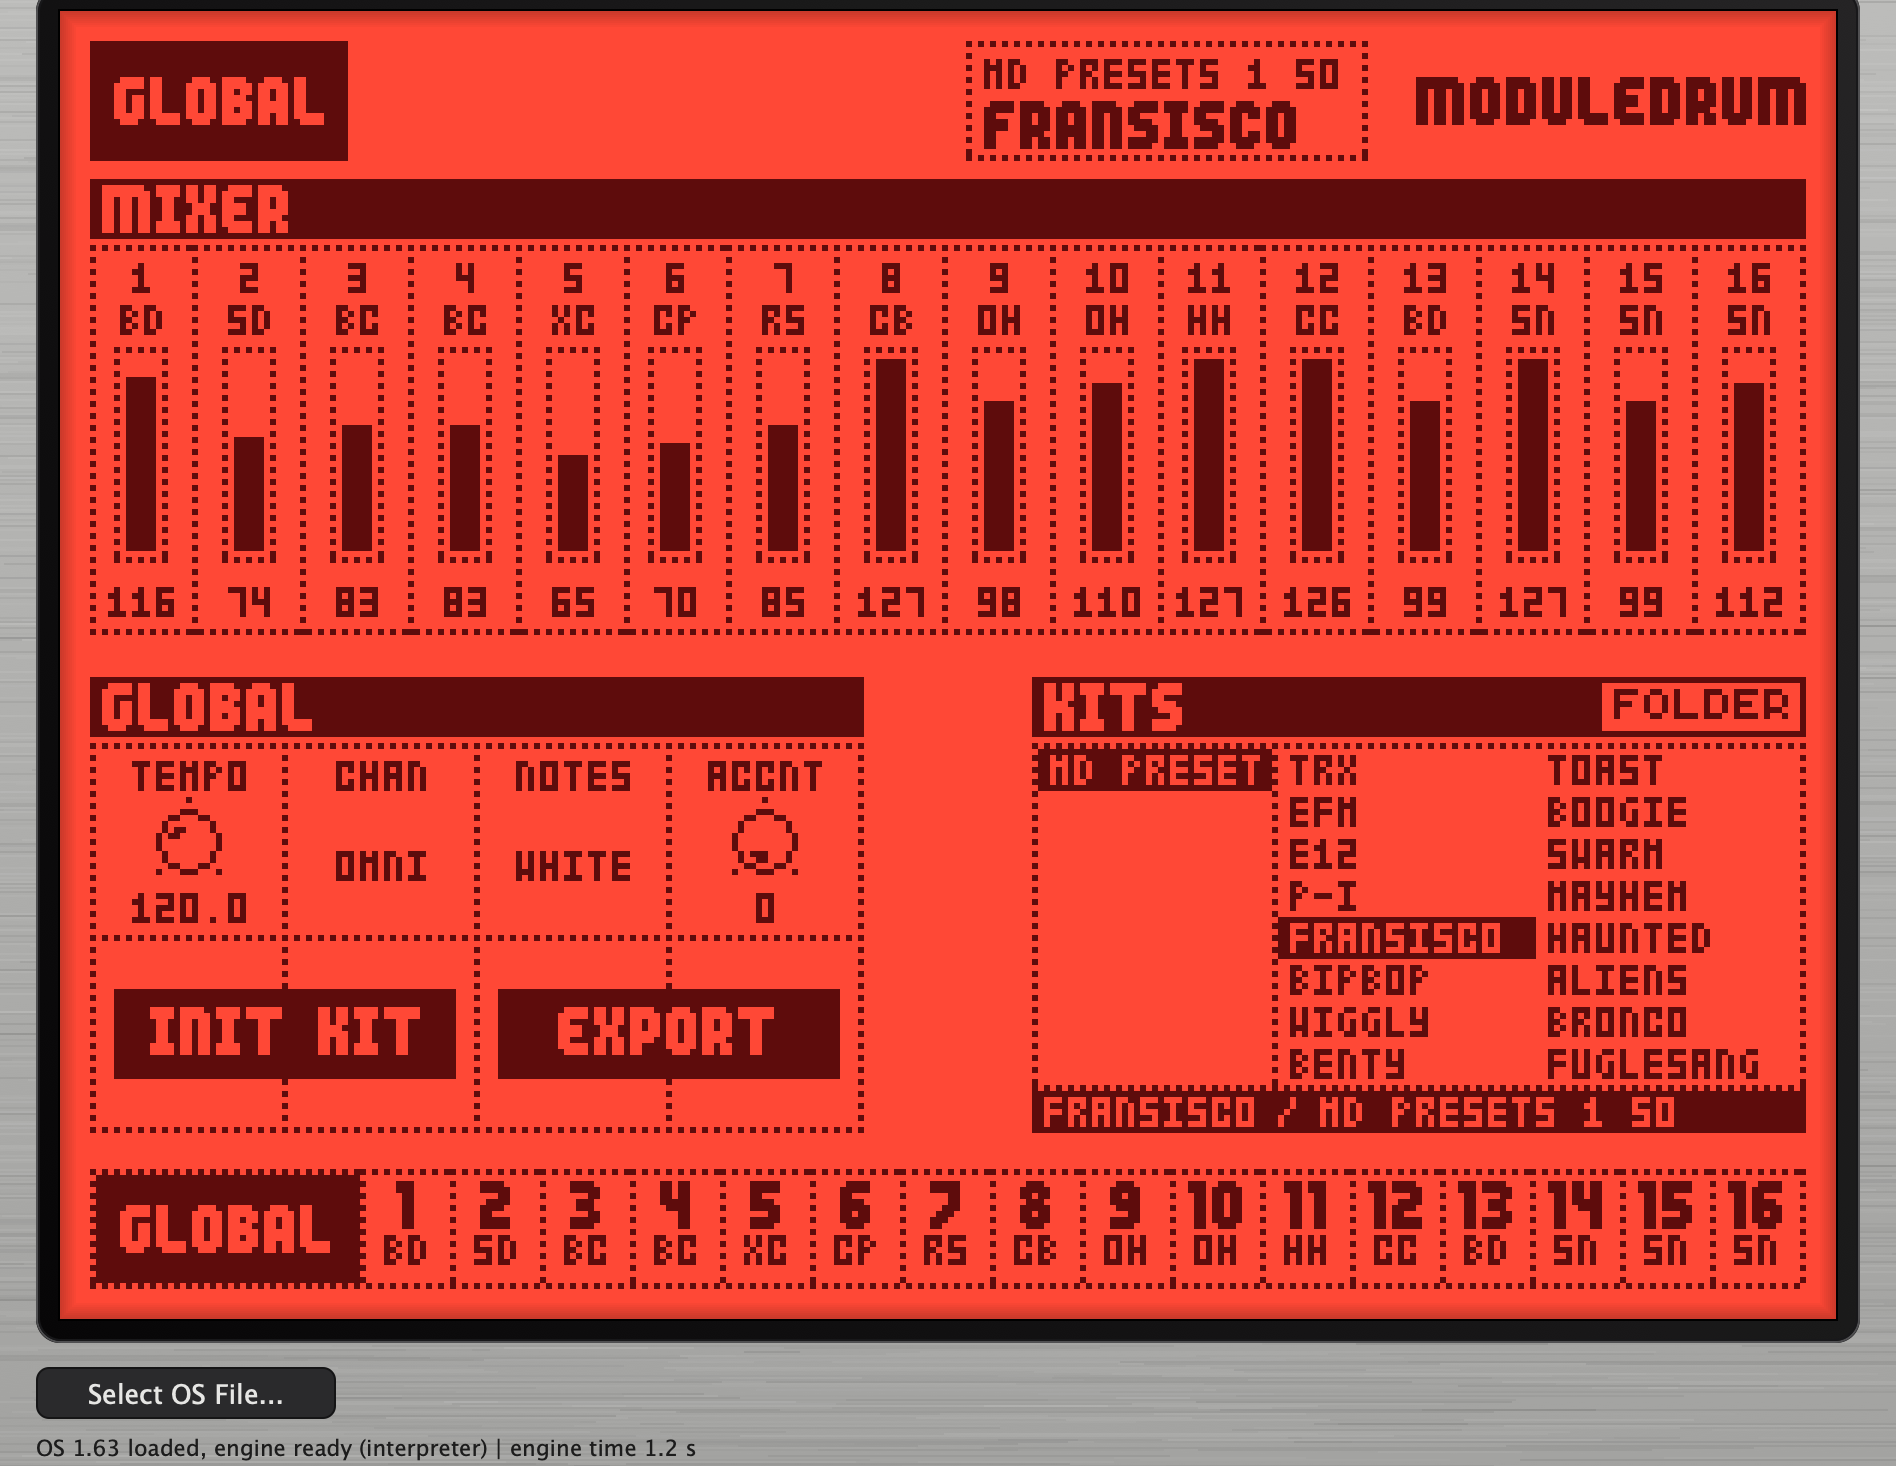
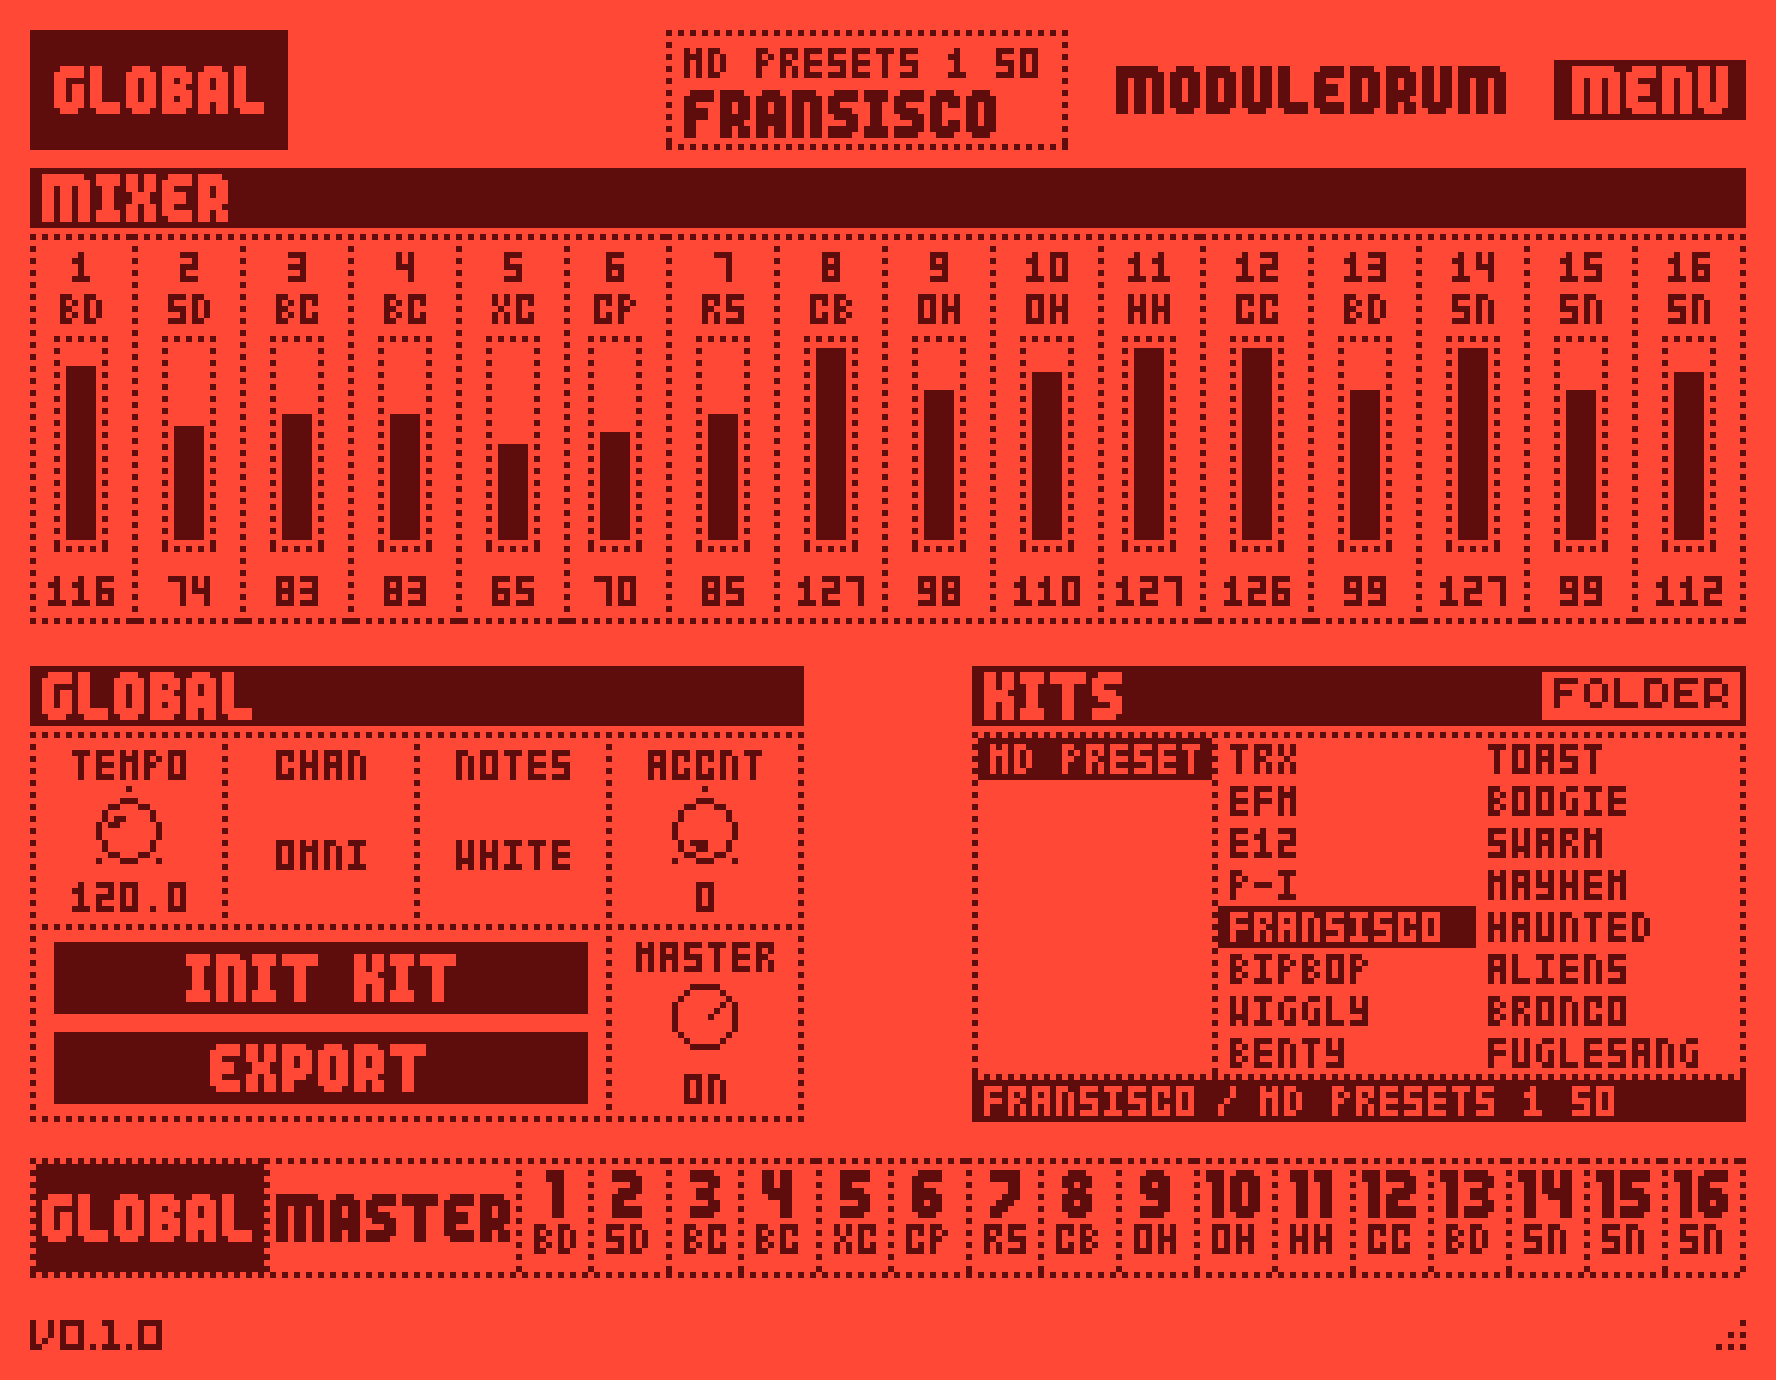
docs: refresh the README screenshots, add the MASTER tab
The editor is the LCD alone with a MENU now, with eight skins and a MASTER tab: new renders (kit FRANSISCO
of the MD presets snapshot, 200 % of the base size) of the track page, GLOBAL with the kit browser, the machine
picker and, new, the MASTER tab. A caption for the MASTER picture, and one sentence on the skins.

diff --git a/README.md b/README.md
@@ -7,7 +7,7 @@ Motorola DSP56300 and the OS's own machine code in an emulated ColdFire, on the 
 [Machinemodule for MPC OS](https://github.com/sd88me/mpc-vst-machinedrum).
 
 <p align="center">
-  <img src="docs/moduledrum.png" width="760" alt="The Moduledrum editor: the Machinedrum LCD with track 5's SYN, AMP/EFX, ROUTE and LFO pages, and the strip of 16 tracks">
+  <img src="docs/moduledrum.png" width="760" alt="The Moduledrum editor: the Machinedrum LCD with track 5 of the kit FRANSISCO, its SYN, AMP/EFX, ROUTE and LFO pages, and the strip with GLOBAL, MASTER and the 16 tracks">
 </p>
 
 > **Moduledrum is not affiliated with, endorsed by or sponsored by Elektron.** "Elektron" and "Machinedrum" are
@@ -42,11 +42,18 @@ Moduledrum window shares one size setting.
 
 ## The editor
 
-The LCD is drawn with the OS file's own fonts and dials, in the layout of Machinemodule's MPC skin.
+The LCD is drawn with the OS file's own fonts and dials, in the layout of Machinemodule's MPC skin. MENU (top right) has
+a Skin submenu with eight colour schemes for the LCD (Machinedrum, Inverted, Black on White, White on Black, Low
+Contrast, Green, Amber and Blue LCD) and a custom pair of colours, shared by every Moduledrum window.
 
 <p align="center">
-  <img src="docs/global.png" width="49%" alt="The GLOBAL tab: the mixer with the 16 tracks' levels, tempo, MIDI channel, note map, accent and the kit browser">
+  <img src="docs/global.png" width="49%" alt="The GLOBAL tab: the mixer with the 16 tracks' levels, tempo, MIDI channel, note map, accent, the master switch and the kit browser showing a bank">
   <img src="docs/machine-picker.png" width="49%" alt="The machine picker: the OS's machines in columns by group (GND, TRX, EFM, E12, P-I, INP, MID, CTR, ROM, RAM)">
+</p>
+
+<p align="center">
+  <img src="docs/master.png" width="49%" alt="The MASTER tab: the kit's rhythm echo, gate box reverb, master EQ and dynamix pages">
+  <br><em>The MASTER tab: the loaded kit's master effects, ECHO, REV, EQ and DYN.</em>
 </p>
 
 - **Header:** the selected track's machine (click it for the machine picker), the loaded kit and its bank (click it for
